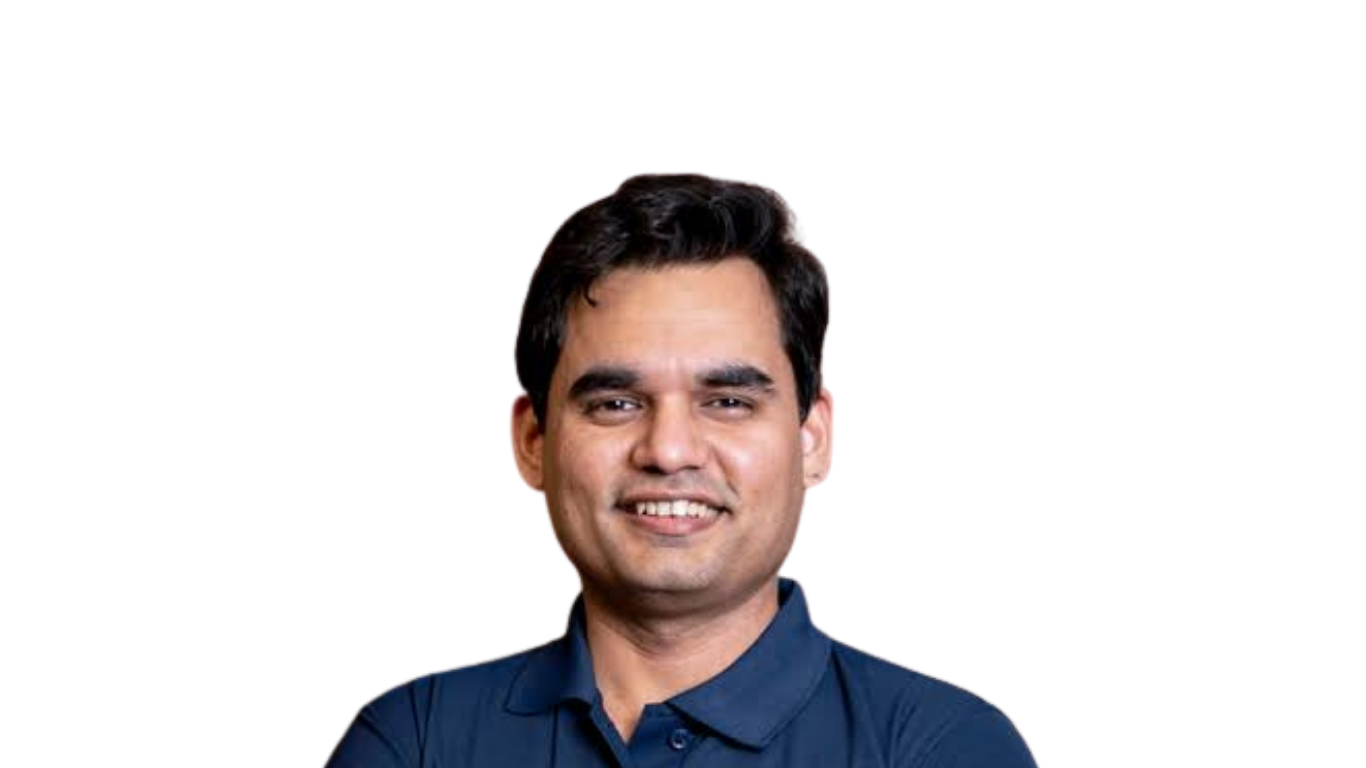
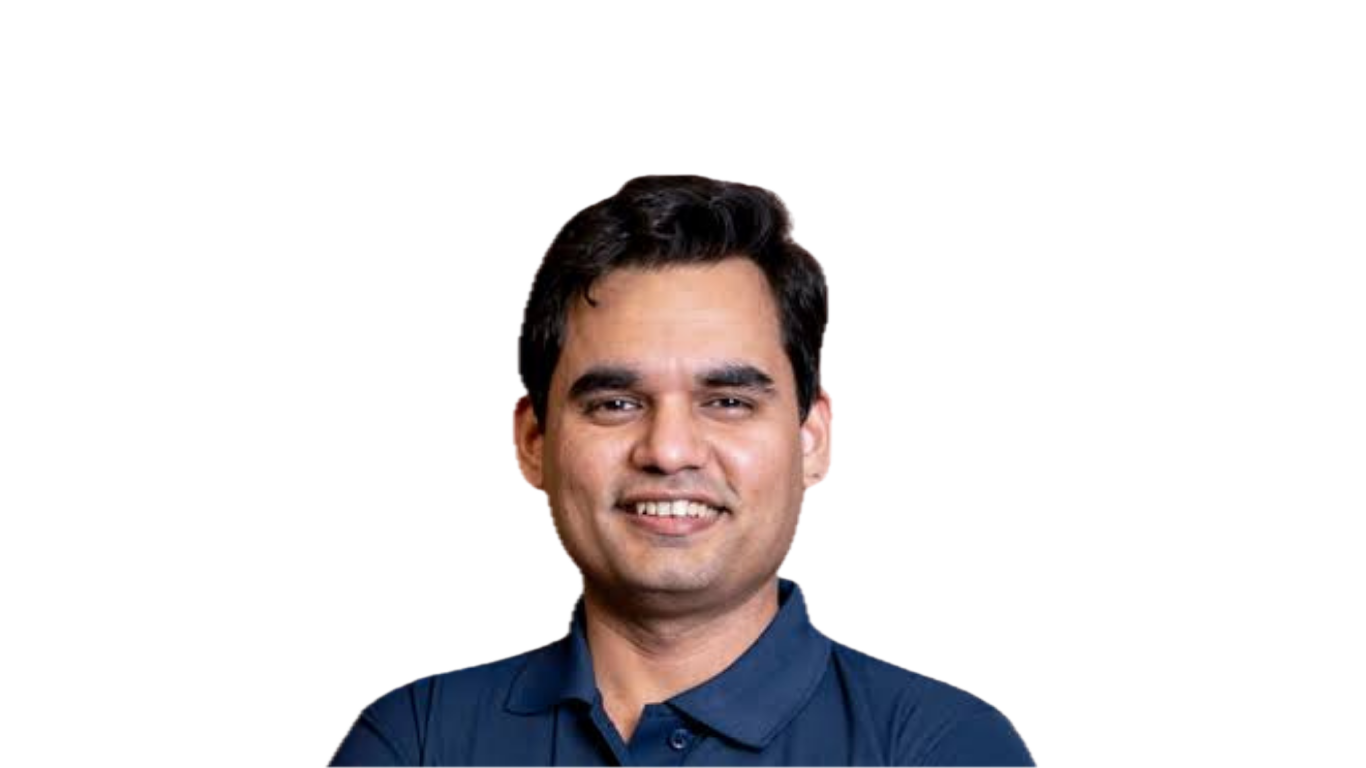
photo change and portfolio page changes

diff --git a/src/app/portfolio/[slug]/page.tsx b/src/app/portfolio/[slug]/page.tsx
@@ -510,7 +510,7 @@ function FoundingTeam({ founders }: { founders: Founder[] }) {
         style={{ gap: "clamp(28px, min(3.88vw, 5.7vh), 56px)" }}
       >
         <h2
-          className="m-0 font-['Libre_Baskerville',_serif] font-semibold text-[#001A4D]"
+          className="m-0 font-['Poppins',_sans-serif] font-bold text-black"
           style={{
             fontSize: "clamp(28px, min(3.33vw, 4.89vh), 48px)",
             lineHeight: "120%",
@@ -598,7 +598,7 @@ function NewsBlogs({ items, brandName }: { items: NewsBlog[]; brandName: string 
         style={{ gap: "clamp(28px, min(3.88vw, 5.7vh), 56px)" }}
       >
         <h2
-          className="m-0 font-['Libre_Baskerville',_serif] font-semibold text-[#001A4D]"
+          className="m-0 font-['Poppins',_sans-serif] font-bold text-black"
           style={{
             fontSize: "clamp(28px, min(3.33vw, 4.89vh), 48px)",
             lineHeight: "120%",
@@ -713,7 +713,7 @@ export default async function PortfolioCompanyPage({
           padding to clear it on every breakpoint.
           ════════════════════════════════════════════════ */}
       <section
-        className="relative flex w-full flex-col bg-[#FBF7F0]"
+        className="relative flex w-full flex-col bg-white"
         style={{
           // Mobile navbar is ~65px, desktop ~80px. Top padding must clear
           // the navbar on every viewport without leaving dead space on phones.
@@ -726,28 +726,16 @@ export default async function PortfolioCompanyPage({
         <div className="mx-auto flex w-full max-w-[1440px] flex-col">
           {/* ── Row 1: Back + Breadcrumb ── */}
           <div className="flex w-full flex-row items-center justify-between">
-            {/* Back button */}
+            {/* Returns to the company grid rather than the top of /portfolio.
+                scroll={false} keeps Next from jumping to the anchor before the
+                grid has loaded — PortfolioGrid performs the scroll itself. */}
             <Link
-              href="/portfolio"
+              href="/portfolio#portfolio-grid"
+              scroll={false}
               aria-label="Back to portfolio"
               className="group inline-flex items-center transition-transform duration-300 hover:scale-105 hover:opacity-80"
               style={{ gap: "clamp(8px, min(0.8vw, 1.2vh), 14px)" }}
             >
-              <svg
-                xmlns="http://www.w3.org/2000/svg"
-                viewBox="0 0 57 57"
-                fill="none"
-                style={{
-                  width: "clamp(38px, min(3.96vw, 5.8vh), 57px)",
-                  height: "clamp(38px, min(3.96vw, 5.8vh), 57px)",
-                  aspectRatio: "1 / 1",
-                }}
-              >
-                <path
-                  d="M5.34375 28.5C5.34375 41.2883 15.7117 51.6562 28.5 51.6562C41.2883 51.6562 51.6562 41.2883 51.6562 28.5C51.6562 15.7117 41.2883 5.34375 28.5 5.34375C15.7117 5.34375 5.34375 15.7117 5.34375 28.5ZM29.0177 18.3291C29.1838 18.4938 29.3158 18.6897 29.4062 18.9055C29.4966 19.1212 29.5436 19.3527 29.5445 19.5867C29.5455 19.8206 29.5003 20.0525 29.4116 20.269C29.3229 20.4854 29.1925 20.6824 29.0277 20.8484L23.203 26.7188H38.0742C38.5466 26.7188 38.9997 26.9064 39.3338 27.2405C39.6678 27.5745 39.8555 28.0276 39.8555 28.5C39.8555 28.9724 39.6678 29.4255 39.3338 29.7595C38.9997 30.0936 38.5466 30.2812 38.0742 30.2812H23.203L29.0277 36.1516C29.1925 36.3178 29.3229 36.5149 29.4115 36.7315C29.5001 36.9481 29.5452 37.1801 29.5441 37.4141C29.5431 37.6482 29.496 37.8797 29.4055 38.0956C29.3149 38.3114 29.1828 38.5073 29.0166 38.6721C28.8503 38.8368 28.6533 38.9672 28.4367 39.0558C28.22 39.1445 27.9881 39.1895 27.754 39.1885C27.52 39.1875 27.2884 39.1403 27.0726 39.0498C26.8568 38.9593 26.6609 38.8271 26.4961 38.6609L17.6578 29.7547C17.3267 29.421 17.1409 28.97 17.1409 28.5C17.1409 28.03 17.3267 27.579 17.6578 27.2453L26.4961 18.3391C26.6609 18.1726 26.8569 18.0403 27.0729 17.9497C27.2889 17.8591 27.5206 17.812 27.7548 17.8111C27.989 17.8102 28.2211 17.8554 28.4378 17.9443C28.6545 18.0332 28.8516 18.1639 29.0177 18.3291Z"
-                  fill="black"
-                />
-              </svg>
               <span
                 className="font-['Poppins',_sans-serif] font-light text-black"
                 style={{
@@ -759,7 +747,6 @@ export default async function PortfolioCompanyPage({
               </span>
             </Link>
 
-            {/* Breadcrumb — Portfolio (light) / slug (medium) */}
             <p
               className="m-0 font-['Poppins',_sans-serif] text-black"
               style={{
@@ -774,7 +761,7 @@ export default async function PortfolioCompanyPage({
                 Portfolio
               </Link>
               <span className="font-light">/</span>
-              <span className="font-medium">{company.slug}</span>
+              <span className="font-medium">{company.brandName}</span>
             </p>
           </div>
 
@@ -816,7 +803,7 @@ export default async function PortfolioCompanyPage({
         }}
       >
         <p
-          className="m-0 text-center font-['Libre_Baskerville',_serif] font-medium text-white"
+          className="m-0 text-center font-['Poppins',_sans-serif] font-medium text-white"
           style={{
             maxWidth: "clamp(260px, min(52.08vw, 76.35vh), 750px)",
             fontSize: "clamp(13px, min(1.67vw, 2.44vh), 24px)",
@@ -854,7 +841,7 @@ export default async function PortfolioCompanyPage({
             style={{ flex: "1 1 0", minWidth: 0 }}
           >
             <h2
-              className="m-0 font-['Libre_Baskerville',_serif] font-semibold text-[#001A4D] lg:whitespace-nowrap"
+              className="m-0 font-['Poppins',_sans-serif] font-bold text-black lg:whitespace-nowrap"
               style={{
                 fontSize: "clamp(28px, min(3.33vw, 4.89vh), 48px)",
                 lineHeight: "120%",

diff --git a/src/components/sections/PortfolioGrid.tsx b/src/components/sections/PortfolioGrid.tsx
@@ -4,6 +4,7 @@ import { useState, useEffect, useRef, useCallback, useMemo } from "react";
 import Image from "next/image";
 import Link from "next/link";
 import { motion, AnimatePresence } from "framer-motion";
+import { useLenis } from "lenis/react";
 
 /** URL slug from brand name: lowercase, alphanumerics joined by hyphens. */
 function companySlug(name: string): string {
@@ -43,9 +44,20 @@ interface APIResponse {
   filters: Filters;
 }
 
+/** Anchor the "Back" link on /portfolio/[slug] targets. */
+export const PORTFOLIO_GRID_ANCHOR = "portfolio-grid";
+
+/**
+ * Cached for the lifetime of the tab. Returning from a company detail page
+ * would otherwise re-run the fetch and flash the skeleton — which also breaks
+ * the anchor scroll below, since the skeleton and the real grid have
+ * different heights.
+ */
+let cachedResponse: APIResponse | null = null;
+
 const FILTER_CONFIG = [
-  { key: "investmentStage" as const, label: "Stage" },
   { key: "sector" as const, label: "Sector" },
+  { key: "investmentStage" as const, label: "Stage" },
   { key: "status" as const, label: "Status" },
 ];
 
@@ -328,9 +340,10 @@ function SkeletonGrid() {
    ═══════════════════════════════════════════════════════ */
 
 export default function PortfolioGrid() {
-  const [data, setData] = useState<APIResponse | null>(null);
-  const [loading, setLoading] = useState(true);
+  const [data, setData] = useState<APIResponse | null>(cachedResponse);
+  const [loading, setLoading] = useState(!cachedResponse);
   const [error, setError] = useState<string | null>(null);
+  const lenis = useLenis();
 
   const [searchQuery, setSearchQuery] = useState("");
   const [activeFilters, setActiveFilters] = useState<Record<FilterKey, Set<string>>>({
@@ -343,12 +356,14 @@ export default function PortfolioGrid() {
   const sectionRef = useRef<HTMLElement>(null);
 
   useEffect(() => {
+    if (cachedResponse) return;
     let cancelled = false;
     async function fetchData() {
       try {
         const res = await fetch("/api/portfolio");
         if (!res.ok) throw new Error("Failed to load portfolio data");
         const json: APIResponse = await res.json();
+        cachedResponse = json;
         if (!cancelled) {
           setData(json);
           setLoading(false);
@@ -365,6 +380,22 @@ export default function PortfolioGrid() {
       cancelled = true;
     };
   }, []);
+
+  /* Land on the grid when arriving via /portfolio#portfolio-grid (the "Back"
+     link on a company detail page). Waits for the grid to render so we measure
+     its real offset, not the skeleton's. */
+  const didAnchorScroll = useRef(false);
+  useEffect(() => {
+    if (loading || didAnchorScroll.current) return;
+    if (window.location.hash !== `#${PORTFOLIO_GRID_ANCHOR}`) return;
+    const el = sectionRef.current;
+    if (!el) return;
+    didAnchorScroll.current = true;
+    requestAnimationFrame(() => {
+      if (lenis) lenis.scrollTo(el, { immediate: true });
+      else el.scrollIntoView();
+    });
+  }, [loading, lenis]);
 
   const toggleFilter = useCallback((key: FilterKey, value: string) => {
     setActiveFilters((prev) => {
@@ -443,6 +474,7 @@ export default function PortfolioGrid() {
   return (
     <section
       ref={sectionRef}
+      id="portfolio-grid"
       // REMOVED overflow-hidden, ADDED overflow-x-clip if needed for animations
       className="relative flex w-full flex-col items-center overflow-x-clip bg-[#FBF7F0]"
       style={{
@@ -455,8 +487,11 @@ export default function PortfolioGrid() {
       <div className="mx-auto flex w-full max-w-[1440px] flex-col lg:flex-row items-start relative">
         
         {/* ── LEFT SIDEBAR FILTERS ── */}
-        <div 
-          className="w-full lg:w-[280px] shrink-0 flex flex-col items-start lg:sticky lg:top-[calc(var(--nav-height,80px)+20px)] lg:max-h-[calc(100vh-100px)] lg:overflow-y-auto"
+        {/* data-lenis-prevent: Lenis runs in `root` mode and would otherwise
+            swallow wheel events here and scroll the page instead of this list. */}
+        <div
+          data-lenis-prevent
+          className="w-full lg:w-[280px] shrink-0 flex flex-col items-start lg:sticky lg:top-[calc(var(--nav-height,80px)+20px)] lg:max-h-[calc(100vh-100px)] lg:overflow-y-auto [&::-webkit-scrollbar]:w-[6px] [&::-webkit-scrollbar-track]:bg-transparent [&::-webkit-scrollbar-thumb]:rounded-full [&::-webkit-scrollbar-thumb]:bg-transparent [&:hover::-webkit-scrollbar-thumb]:bg-black/25 [scrollbar-width:thin] [scrollbar-color:transparent_transparent] [&:hover]:[scrollbar-color:rgba(0,0,0,0.25)_transparent]"
           style={{ paddingRight: "clamp(12px, 1.5vw, 20px)" }}
         >
           <div className="flex w-full items-center justify-between pb-4 border-b border-[#000]/10">

diff --git a/src/components/layout/LenisProvider.tsx b/src/components/layout/LenisProvider.tsx
@@ -1,7 +1,8 @@
 "use client";
 
-import { ReactLenis } from "lenis/react";
-import { useEffect, type ReactNode } from "react";
+import { ReactLenis, useLenis } from "lenis/react";
+import { usePathname } from "next/navigation";
+import { useEffect, useRef, type ReactNode } from "react";
 import { markAppMounted } from "@/lib/appNavState";
 
 /**
@@ -16,15 +17,32 @@ import { markAppMounted } from "@/lib/appNavState";
  * madeinmay.studio-ish weight the design leans on — not too glassy, not
  * jittery either. Bump higher for more inertia, lower for tighter feel.
  */
+/**
+ * Next.js only restores scroll on browser back/forward, so a <Link> that lands
+ * on a new route keeps the previous offset. Reset to the top on every route
+ * change — unless the URL carries a hash, in which case the destination page
+ * owns the scroll (it may need to wait for async content before measuring).
+ */
+function ScrollToTopOnNav({ children }: { children: ReactNode }) {
+  const lenis = useLenis();
+  const pathname = usePathname();
+  const prevPathname = useRef(pathname);
+
+  useEffect(() => {
+    if (pathname === prevPathname.current) return;
+    prevPathname.current = pathname;
+    if (window.location.hash) return;
+    lenis?.scrollTo(0, { immediate: true });
+  }, [pathname, lenis]);
+
+  return <>{children}</>;
+}
+
 export default function LenisProvider({
   children,
 }: {
   children: ReactNode;
 }) {
-  // Runs once on the app's first client render and never again (this
-  // provider is mounted once at the root and persists across soft navs).
-  // After this, hasAppMounted() reports true for any later route change —
-  // letting the homepage hero know it was reached via client navigation.
   useEffect(() => {
     markAppMounted();
   }, []);
@@ -35,12 +53,10 @@ export default function LenisProvider({
       options={{
         duration: 1.2,
         smoothWheel: true,
-        /* Cubic-bezier equivalent to the site's global EASE
-           [0.22, 1, 0.36, 1] — snappy start, smooth deceleration. */
         easing: (t: number) => 1 - Math.pow(1 - t, 3),
       }}
     >
-      {children}
+      <ScrollToTopOnNav>{children}</ScrollToTopOnNav>
     </ReactLenis>
   );
 }

diff --git a/src/components/layout/NavbarClient.tsx b/src/components/layout/NavbarClient.tsx
@@ -150,9 +150,11 @@ export default function NavbarClient({ data }: { data?: NavbarData }) {
   // Match the route itself AND any sub-page (e.g. /ourTeam/<slug> team detail
   // pages, which also render on a light background). Without the prefix check
   // the nav stays white-on-white and disappears on those detail pages.
-  const isInvertedRoute = [...INVERTED_HERO_ROUTES].some(
-    (r) => pathname === r || pathname.startsWith(`${r}/`)
-  );
+  const isInvertedRoute =
+    [...INVERTED_HERO_ROUTES].some(
+      (r) => pathname === r || pathname.startsWith(`${r}/`)
+    ) ||
+    (pathname.startsWith("/portfolio/") && pathname !== "/portfolio");
   const inverted = isInvertedRoute && !scrolled;
 
   const lenis = useLenis();
